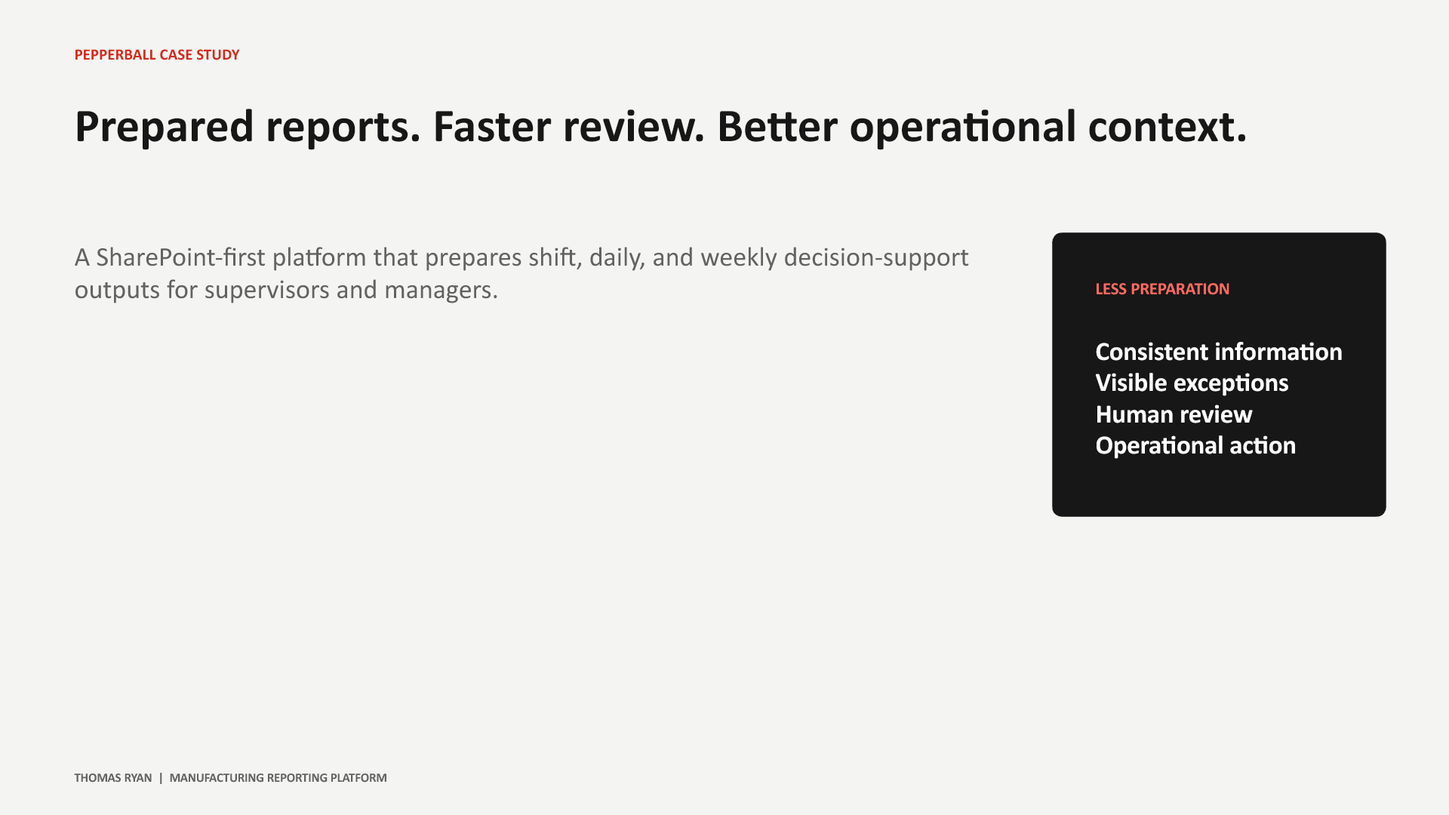
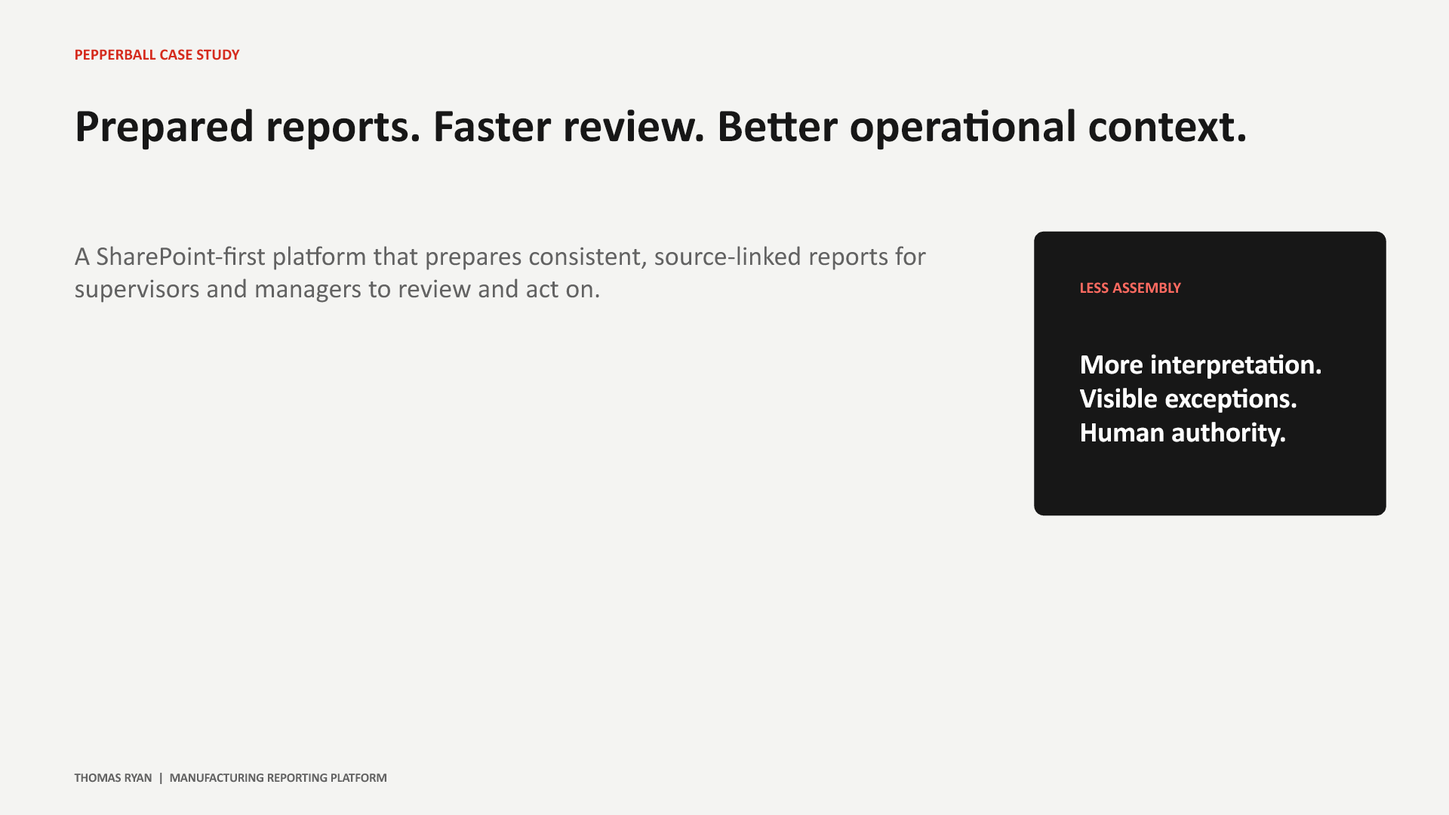
Condense case study and clarify artifact roles

Changed region(s): [[0.0312, 0.275, 0.9375, 0.6417]]

diff --git a/app/page.tsx b/app/page.tsx
@@ -1,64 +1,18 @@
-'use client';
-import { useState } from 'react';
 import Image from 'next/image';
-
 const outputs=[
-['Shift Drafts','Supervisors','Automates much of the collection, reconciliation, organization, and spreadsheet manipulation required for shift reporting. Supervisors receive a prepared starting point, review exceptions, add operational context, and finalize reports more quickly.',['Review exceptions','Add shift context','Finalize and hand off']],
-['Daily Production Reports','Managers','Combines production, molding, labor, quality, plan attainment, and downtime so managers can investigate constraints, prioritize follow-up, and adjust staffing, production plans, maintenance, or coordination.',['Investigate performance','Prioritize follow-up','Coordinate action']],
-['Weekly Production Reports','Operations leadership','Compares performance over time, distinguishes isolated incidents from recurring patterns, and supports capacity, labor, and production planning.',['Compare trends','Plan capacity and labor','Focus improvement']],
-['Weekly Downtime Reports','Operations and maintenance','Provides consistent evidence for maintenance prioritization, daily meetings, weekly reviews, and clearer shift-to-shift accountability.',['Find recurring issues','Plan maintenance','Track follow-up']]
+ {name:'Shift Drafts',user:'Supervisors',prepare:'Collection, reconciliation, organization, and spreadsheet preparation.',use:'Review exceptions, add operational context, and finalize shift reports.'},
+ {name:'Daily Production Reports',user:'Managers',prepare:'Production, molding, labor, quality, plan attainment, and downtime in one consistent view.',use:'Investigate constraints and prioritize staffing, planning, maintenance, or coordination follow-up.'},
+ {name:'Weekly Production + Downtime',user:'Managers and teams',prepare:'Comparable performance and downtime evidence across reporting periods.',use:'Identify trends, separate recurring issues from isolated events, and support planning, reviews, and handoffs.'},
 ];
-const flow=[
-['01','Operational inputs','Hourly production, quality, labor, machine notes, machine events, and final-report evidence arrive through existing SharePoint and Excel workflows.'],
-['02','Automated ingestion','Version-aware collection preserves source identity and immutable evidence while current work stays ahead of historical reconciliation.'],
-['03','Governed facts','Eight source-linked reporting tables normalize inputs while missing remains distinct from a proved zero.'],
-['04','Reconcile and validate','Coverage, lineage, business semantics, and stored values are checked before an output can advance.'],
-['05','Prepare outputs','Shift, daily, weekly production, and weekly downtime workbooks organize evidence into consistent operational views.'],
-['06','Human review and action','Supervisors and managers interpret results, add context, investigate constraints, and choose the response.']
-];
-const impacts=[
-['94.6%','Measured replay-load reduction','Serving rows fell from 113,137 to 6,075 while required table counts were preserved.'],
-['86.6%','Measured local database-footprint reduction','The verified PostgreSQL fixture fell from 198,719,167 to 26,580,671 bytes.'],
-['~90%','Estimated faster information retrieval','A source-grounded workflow reduced a modeled 20–30 minute investigation to roughly 1–2 minutes.'],
-['30 hrs/wk','Estimated recurring preparation time','20 supervisor and 10 manager hours weekly, representing about $52K in modeled annual labor value.']
-];
-const lenses=[
-['Average viewer','See who uses each output, what preparation it reduces, and how it supports faster interpretation and action.'],
-['Recruiter','See end-to-end ownership across product discovery, Python/PostgreSQL engineering, cloud delivery, and handoff.'],
-['Operations','Follow Shift Draft, daily, weekly, machine-event, alert, meeting, and handoff workflows.'],
-['Engineer','Inspect ingestion, eight tables, lineage, validation, idempotency, publication, readback, repair, and rollback.']
-];
-const groups=[
-['Operational capture',['SharePoint and Microsoft Forms','Five Power Automate flows','Machine status, notes, labor, and reminders']],
-['Data platform',['Python ingestion and reconciliation','PostgreSQL serving model','Eight source-linked reporting tables']],
-['Report products',['Shift Drafts','Daily and weekly production','Weekly downtime and maintenance']],
-['Reliability',['Lineage and stored-value validation','Fail-closed same-item publishing','Exact readback and bounded repair']],
-['Delivery',['Read-only API and SPFx surfaces','One-writer immutable releases','Exact rollback and evidence capture']],
-['Deeper material',['Synthetic recovery lab','Architecture and validation docs','Chronology, deck, workbook, and GitHub']]
-];
-const scenarios=[
-['Late source','Recovered','1 governed write','The obligation stays pending until qualified evidence arrives, then refreshes the same canonical output.',['Expected output recorded','Source remains incomplete','Qualified evidence arrives','Same item advances once','Exact readback certifies']],
-['Lost response','Settled','0 retry writes','An ambiguous response never authorizes a second write. Remote state is resolved with GET only.',['Conditional write accepted','Response becomes ambiguous','Candidate retained','GET reads remote state','Exact match settles']],
-['Equivalent replay','No-op','0 writes','Capture metadata can change while governed business material stays equivalent, so publication is skipped.',['Due slot observed','Material identity computed','Existing identity matches','Readback remains exact','No mutation issued']],
-['Release regression','Restored','1 active writer','A failed successor drains before exact rollback resumes, preserving a single production writer.',['Successor isolated','Guard detects regression','Writer drains','Exact rollback activates','Topology rechecked']]
-];
-
-export default function Home(){
- const [lens,setLens]=useState(0); const [scenarioIndex,setScenarioIndex]=useState(0); const scenario=scenarios[scenarioIndex];
- return <main>
-  <section className="hero" id="top"><nav className="nav"><a className="wordmark" href="#top">PB<span>/</span>Platform</a><div className="nav-links"><a href="#outputs">Outputs</a><a href="#workflow">Workflow</a><a href="#evidence">Evidence</a><a href="#technical">Technical depth</a></div></nav><div className="hero-grid"><div><p className="eyebrow">Manufacturing intelligence case study</p><h1>Prepared reports. Faster review. Better operational context.</h1><p className="lede">A SharePoint-first manufacturing intelligence platform that turns fragmented production evidence into dependable shift, daily, and weekly decision-support outputs for supervisors and managers.</p><p className="role-line">Thomas Ryan · Forward Deployed Engineer Intern · May–August 2026</p><div className="hero-actions"><a className="button primary" href="#outputs">See how the reports are used</a><a className="button secondary" href="/Thomas-Ryan-PepperBall-Case-Study.pdf">One-page PDF</a></div></div><aside className="proof-panel"><p className="panel-label">What changes for the team</p><dl><div><dt>Preparation</dt><dd>Less manual assembly</dd></div><div><dt>Information</dt><dd>Consistent and traceable</dd></div><div><dt>Accountability</dt><dd>Exceptions stay visible</dd></div><div><dt>Management time</dt><dd>More interpretation and action</dd></div></dl><p className="decision-note">The platform supports decisions; supervisors and managers retain operational judgment and authority.</p></aside></div></section>
-  <section className="section output-section" id="outputs"><Heading eyebrow="How the outputs are used" title="Built around the reporting work people already do." body="The products reduce preparation and reconciliation while keeping review, context, exceptions, and operational decisions with the people closest to the process."/><div className="output-grid">{outputs.map((o,i)=><article key={o[0] as string}><span>{String(i+1).padStart(2,'0')} · {o[1] as string}</span><h3>{o[0] as string}</h3><p>{o[2] as string}</p><ul>{(o[3] as string[]).map(x=><li key={x}>{x}</li>)}</ul></article>)}</div></section>
-  <section className="dark-section" id="workflow"><div className="section"><Heading light eyebrow="Operating workflow" title="Automation prepares the evidence. People decide what to do." body="Every stage preserves the path from source material to the report a supervisor or manager reviews."/><div className="flow-grid">{flow.map(x=><article key={x[0]}><span>{x[0]}</span><h3>{x[1]}</h3><p>{x[2]}</p></article>)}</div></div></section>
-  <section className="section" id="evidence"><Heading eyebrow="Impact with boundaries" title="Measured engineering gains. Clearly labeled operational models." body="Technical reductions are measured in retained evidence. Time and financial figures are estimates or models—not booked savings, recovered revenue, or guaranteed outcomes."/><div className="impact-grid">{impacts.map(x=><article key={x[1]}><strong>{x[0]}</strong><h3>{x[1]}</h3><p>{x[2]}</p></article>)}</div><p className="impact-note">Secondary modeled opportunity: real-time status updates and downtime alerts represent up to 227.5K widgets and approximately $205K in annual contribution margin under stated event-frequency, response-time, throughput, and margin assumptions.</p></section>
-  <section className="lens-section"><div className="section lens-grid"><div><p className="eyebrow">Choose your depth</p><h2>One story, useful at every altitude.</h2></div><div><div className="tabs" role="tablist">{lenses.map((x,i)=><button role="tab" key={x[0]} aria-selected={lens===i} className={lens===i?'selected':''} onClick={()=>setLens(i)}>{x[0]}</button>)}</div><div className="lens-panel"><h3>{lenses[lens][0]}</h3><p>{lenses[lens][1]}</p></div></div></div></section>
-  <section className="dark-section" id="technical"><div className="section"><Heading light eyebrow="Architecture and technical depth" title="What makes the operational views trustworthy." body="The overview names every major component. Detailed public documentation and the private handoff preserve implementation and operating procedures at the appropriate access level."/><div className="technical-grid">{groups.map((g,i)=><article key={g[0] as string}><span>{String(i+1).padStart(2,'0')}</span><h3>{g[0] as string}</h3><ul>{(g[1] as string[]).map(x=><li key={x}>{x}</li>)}</ul></article>)}</div></div></section>
-  <section className="lab-section"><div className="section"><Heading light eyebrow="Interactive recovery lab" title="Change the failure. Keep the invariants." body="A synthetic browser-only demonstration with no production connection."/><div className="tabs dark-tabs" role="tablist">{scenarios.map((x,i)=><button role="tab" key={x[0] as string} aria-selected={scenarioIndex===i} className={scenarioIndex===i?'selected':''} onClick={()=>setScenarioIndex(i)}>{x[0] as string}</button>)}</div><div className="scenario"><div><div className="status"><span>{scenario[1] as string}</span><strong>{scenario[2] as string}</strong></div><h3>{scenario[0] as string}</h3><p>{scenario[3] as string}</p></div><ol>{(scenario[4] as string[]).map((x,i)=><li key={x}><span>{i+1}</span><strong>{x}</strong></li>)}</ol></div></div></section>
-  <section className="artifact-section"><div className="section artifact-grid"><div><p className="eyebrow">Synthetic output</p><h2>Inspect the product without exposing production data.</h2><p>The workbook mirrors the reliability model with formula-driven summaries, a recovery trace, and synthetic identifiers.</p><div className="hero-actions"><a className="button primary" href="/synthetic-reliability-report.xlsx">Download workbook</a><a className="text-link" href="/synthetic-report-trace.png">View trace</a></div></div><figure><Image src="/synthetic-report-summary.png" width={2172} height={1097} alt="Synthetic reporting workbook summary"/><figcaption>Executive Summary generated entirely from synthetic recovery events.</figcaption></figure></div></section>
-  <section className="downloads-section"><div className="section downloads-grid"><div><p className="eyebrow">Go deeper</p><h2>Pick the artifact for the conversation.</h2><p>Start with the executive scan, then move into architecture, evidence, synthetic code, and the full technical narrative.</p></div><div className="download-list"><Download n="01" href="/Thomas-Ryan-PepperBall-Case-Study.pdf" title="One-page case study" detail="Operational overview · PDF"/><Download n="02" href="/Thomas-Ryan-PepperBall-End-to-End-Case-Study.pdf" title="End-to-end case study" detail="Architecture and evidence · PDF"/><Download n="03" href="/Thomas-Ryan-PepperBall-Platform-Case-Study.pptx" title="Presentation deck" detail="Operations-to-engineering narrative · PowerPoint"/><Download n="04" href="/synthetic-reliability-report.xlsx" title="Synthetic workbook" detail="Inspectable reliability output · Excel"/></div></div></section>
-  <section className="role-section"><div className="section role-grid"><div><p className="eyebrow">Role and boundaries</p><h2>Product judgment, engineering rigor, and operational ownership.</h2></div><div><p>Thomas owned field discovery, product goals, business definitions, acceptance criteria, architecture, implementation direction, production diagnosis, release decisions, evidence, and handoff.</p><p>This clean-room public package uses generalized architecture and synthetic data. It contains no production source, customer data, credentials, private identities, exact topology, or live templates.</p><div className="contact-links"><a href="https://github.com/tonnyryam">GitHub</a><a href="https://www.linkedin.com/in/thomas-f-ryan/">LinkedIn</a><a href="mailto:tommyryan.sf415@gmail.com">Email</a></div></div></div></section>
-  <footer><div><strong>PepperBall reporting platform case study</strong><p>Thomas Ryan · Forward Deployed Engineer Intern · May–August 2026</p></div><p>Independent portfolio material. All Rights Reserved. Not an official PepperBall product.</p></footer>
- </main>
-}
-
-function Heading({eyebrow,title,body,light=false}:{eyebrow:string,title:string,body:string,light?:boolean}){return <div className={'section-heading'+(light?' light':'')}><div><p className="eyebrow">{eyebrow}</p><h2>{title}</h2></div><p>{body}</p></div>}
-function Download({n,href,title,detail}:{n:string,href:string,title:string,detail:string}){return <a href={href}><span>{n}</span><div><strong>{title}</strong><small>{detail}</small></div></a>}
+const controls=['Automated ingestion and reconciliation','Source-linked lineage','Missing remains distinct from zero','Fail-closed validation and publishing','One-writer delivery and exact rollback'];
+function Download({href,title,detail}:{href:string;title:string;detail:string}){return <a href={href}><span>↗</span><div><strong>{title}</strong><small>{detail}</small></div></a>}
+export default function Home(){return <main>
+ <section className="hero" id="top"><nav className="nav"><a className="wordmark" href="#top">PB<span>/</span>Platform</a><div className="nav-links"><a href="#outputs">Outputs</a><a href="#workflow">Workflow</a><a href="#technical">Technical</a><a href="#evidence">Evidence</a></div></nav><div className="hero-grid"><div><p className="eyebrow">Manufacturing intelligence case study</p><h1>Prepared reports. Faster review. Better operational context.</h1><p className="lede">A SharePoint-first platform that prepares consistent, source-linked shift, daily, and weekly reports for supervisors and managers to review and act on.</p><p className="role-line">Thomas Ryan · Forward Deployed Engineer Intern · May–August 2026</p><div className="hero-actions"><a className="button primary" href="#outputs">See how it is used</a><a className="button secondary" href="/Thomas-Ryan-PepperBall-Case-Study.pdf">One-page overview</a></div></div><aside className="proof-panel"><p className="panel-label">The operational change</p><strong>Less assembly.<br/>More interpretation.</strong><p>Automation prepares the evidence. People review exceptions, add context, and retain decision authority.</p></aside></div></section>
+ <section className="section output-section" id="outputs"><div className="compact-heading"><div><p className="eyebrow">Who uses what</p><h2>Three reporting products, three distinct jobs.</h2></div><p>Each output reduces preparation without hiding exceptions or replacing operational judgment.</p></div><div className="output-table"><div className="output-head"><span>Output</span><span>Automation prepares</span><span>People use it to</span></div>{outputs.map(o=><article key={o.name}><div><small>{o.user}</small><h3>{o.name}</h3></div><p>{o.prepare}</p><p>{o.use}</p></article>)}</div></section>
+ <section className="dark-section" id="workflow"><div className="section"><div className="compact-heading light"><div><p className="eyebrow">Operational workflow</p><h2>One traceable path from input to action.</h2></div><p>The system prepares decision-support information; supervisors and managers decide what happens next.</p></div><div className="workflow-visual"><div><span>01</span><strong>Operational inputs</strong><small>Forms · SharePoint · files · machine events</small></div><b>→</b><div><span>02</span><strong>Prepare + validate</strong><small>Ingest · reconcile · link · test</small></div><b>→</b><div><span>03</span><strong>Reports + dashboard</strong><small>Shift · daily · weekly · live status</small></div><b>→</b><div className="red-step"><span>04</span><strong>Human review + action</strong><small>Interpret · prioritize · coordinate</small></div></div></div></section>
+ <section className="section value-section"><div className="value-copy"><p className="eyebrow">Operational value</p><h2>More time for interpretation, follow-up, and accountability.</h2><p>Prepared reports reduce repetitive spreadsheet work and make consistent information easier to reach. Exceptions remain visible so teams can investigate rather than merely assemble.</p></div><div className="value-proof"><span>Modeled planning opportunity</span><strong>30 hours/week</strong><p>20 supervisor and 10 manager hours of reporting effort addressed, representing about $52K in modeled annual labor value under documented assumptions—not booked savings.</p></div></section>
+ <section className="architecture-section" id="technical"><div className="section architecture-grid"><div><p className="eyebrow">Technical foundation</p><h2>Simple to consume because the controls are explicit.</h2><ul>{controls.map(x=><li key={x}>{x}</li>)}</ul><a className="text-link" href="/Thomas-Ryan-PepperBall-End-to-End-Case-Study.pdf">Read the technical case study →</a></div><div className="architecture-visual"><div><span>INPUTS</span><strong>SharePoint · Forms<br/>5 flows · machine events</strong></div><i>↓</i><div><span>REPORTING CORE</span><strong>Python · PostgreSQL<br/>8 source-linked tables</strong></div><i>↓</i><div><span>DELIVERY</span><strong>Validated workbooks<br/>API · SPFx dashboard</strong></div><aside>Lineage · validation · readback · rollback</aside></div></div></section>
+ <section className="preview-section" id="evidence"><div className="section"><div className="compact-heading"><div><p className="eyebrow">Evidence in context</p><h2>Open an artifact only when it adds a new layer.</h2></div><p>The public package is synthetic and sanitized. Exact operating dependencies remain in the private successor handoff.</p></div><div className="preview-grid"><figure><Image src="/synthetic-report-summary.png" width={2172} height={1097} alt="Synthetic reporting workbook summary"/><figcaption><strong>Inspect the synthetic workbook</strong><span>Operational-use guide plus reliability evidence.</span><a href="/synthetic-reliability-report.xlsx">Download Excel →</a></figcaption></figure><div className="artifact-stack"><Download href="/Thomas-Ryan-PepperBall-Case-Study.pdf" title="One-page overview" detail="Executive scan · PDF"/><Download href="/Thomas-Ryan-PepperBall-Platform-Case-Study.pptx" title="Presentation" detail="Short operating narrative · PowerPoint"/><Download href="/Thomas-Ryan-PepperBall-End-to-End-Case-Study.pdf" title="Technical case study" detail="Architecture and evidence · PDF"/></div></div></div></section>
+ <section className="final-section"><div><p className="eyebrow">Continue</p><h2>Choose the evidence that fits the conversation.</h2></div><div className="final-actions"><a href="/Thomas-Ryan-PepperBall-End-to-End-Case-Study.pdf">Technical case study</a><a href="/synthetic-reliability-report.xlsx">Synthetic workbook</a><a href="https://github.com/tonnyryam/pepperball-reporting-platform-case-study">GitHub repository</a></div></section>
+ <footer><span>Thomas Ryan · Manufacturing reporting platform</span><p>Decision support—not autonomous decisions or guaranteed outcomes.</p></footer>
+ </main>}

diff --git a/app/globals.css b/app/globals.css
@@ -1,14 +1,11 @@
 @import 'tailwindcss';
-:root{--ink:#171717;--muted:#626262;--paper:#f4f4f2;--surface:#fff;--line:#d2d2cf;--red:#d52b1e;--red-dark:#a91f16;--night:#191919;--grey:#e7e7e4}
-*{box-sizing:border-box}html{scroll-behavior:smooth}body{margin:0;background:var(--paper);color:var(--ink);font-family:var(--font-geist-sans),Arial,sans-serif}a{color:inherit}button,a{-webkit-tap-highlight-color:transparent}button:focus-visible,a:focus-visible{outline:3px solid var(--red);outline-offset:4px}.section{max-width:1240px;margin:auto;padding:104px clamp(24px,6vw,88px)}
-.hero{padding:24px clamp(24px,6vw,88px) 78px;background:radial-gradient(circle at 84% 13%,#e7e7e5 0,transparent 29%),linear-gradient(145deg,#fff 0%,#f1f1ef 100%)}.nav{display:flex;justify-content:space-between;align-items:center;max-width:1240px;margin:auto}.wordmark{font-family:var(--font-geist-mono);font-weight:800;text-decoration:none;letter-spacing:-.04em}.wordmark span{color:var(--red);padding:0 4px}.nav-links{display:flex;gap:26px}.nav-links a{font-size:13px;text-decoration:none}.nav-links a:hover{text-decoration:underline;text-decoration-color:var(--red);text-underline-offset:6px}.hero-grid{display:grid;grid-template-columns:minmax(0,1.4fr) minmax(300px,.6fr);gap:clamp(48px,8vw,112px);align-items:end;max-width:1240px;margin:clamp(82px,13vh,142px) auto 0}.eyebrow{margin:0 0 18px;color:var(--red);font-family:var(--font-geist-mono);font-size:12px;font-weight:800;letter-spacing:.13em;text-transform:uppercase}h1{max-width:930px;margin:0;font-size:clamp(50px,7.3vw,98px);font-weight:620;letter-spacing:-.07em;line-height:.94}.lede{max-width:790px;margin:32px 0 0;color:var(--muted);font-size:clamp(18px,2vw,23px);line-height:1.55}.role-line{margin:21px 0 0;color:var(--red-dark);font-family:var(--font-geist-mono);font-size:12px;font-weight:700}.hero-actions{display:flex;flex-wrap:wrap;gap:14px;margin-top:32px}.button{display:inline-flex;min-height:48px;align-items:center;justify-content:center;padding:0 20px;border:1px solid var(--ink);border-radius:999px;font-size:14px;font-weight:700;text-decoration:none}.button.primary{background:var(--red);border-color:var(--red);color:#fff}.button.primary:hover{background:var(--red-dark);border-color:var(--red-dark)}.button.secondary{background:#fff}.proof-panel{padding:30px;background:var(--night);color:#fff;border-radius:26px 26px 4px 26px;box-shadow:22px 24px 0 #d8d8d5}.panel-label{margin:0 0 20px;color:#ff6258;font-family:var(--font-geist-mono);font-size:11px;letter-spacing:.12em;text-transform:uppercase}.proof-panel dl{margin:0}.proof-panel dl div{display:flex;justify-content:space-between;gap:20px;padding:14px 0;border-top:1px solid #ffffff2b}.proof-panel dt{color:#bdbdbd;font-size:13px}.proof-panel dd{margin:0;text-align:right;font-size:13px;font-weight:700}.decision-note{margin:20px 0 0;color:#c9c9c9;font-size:12px;line-height:1.55}
-.section-heading{display:grid;grid-template-columns:minmax(0,1.1fr) minmax(260px,.9fr);gap:70px;align-items:end;margin-bottom:50px}.section-heading h2,.lens-grid h2,.downloads-grid h2,.role-grid h2,.artifact-grid h2{margin:0;font-size:clamp(38px,5vw,66px);letter-spacing:-.055em;line-height:.99}.section-heading>p,.section-heading>div+p{margin:0;color:var(--muted);font-size:17px;line-height:1.65}.section-heading.light>p,.section-heading.light>div+p{color:#c7c7c7}.output-section{background:var(--surface)}
-.output-grid{display:grid;grid-template-columns:repeat(2,1fr);border-top:1px solid var(--line);border-left:1px solid var(--line)}.output-grid article{padding:30px;border-right:1px solid var(--line);border-bottom:1px solid var(--line);background:#fafaf9}.output-grid article>span,.flow-grid article>span,.technical-grid article>span{color:var(--red);font-family:var(--font-geist-mono);font-size:11px;text-transform:uppercase}.output-grid h3{margin:34px 0 10px;font-size:30px;letter-spacing:-.04em}.output-grid p{color:var(--muted);line-height:1.65}.output-grid ul{display:flex;flex-wrap:wrap;gap:8px;margin:22px 0 0;padding:0;list-style:none}.output-grid li{padding:8px 10px;border:1px solid #bcbcb9;border-radius:999px;color:#444;font-size:12px}
-.dark-section{background:var(--night);color:#fff}.flow-grid{display:grid;grid-template-columns:repeat(3,1fr);gap:1px;background:#4a4a4a;border:1px solid #4a4a4a}.flow-grid article{min-height:260px;padding:28px;background:#242424}.flow-grid h3{margin:48px 0 14px;font-size:24px}.flow-grid p{margin:0;color:#c3c3c3;line-height:1.6}.impact-grid{display:grid;grid-template-columns:repeat(4,1fr);gap:1px;background:var(--line);border:1px solid var(--line)}.impact-grid article{min-height:285px;padding:26px;background:#fff}.impact-grid article>strong{display:block;color:var(--red);font-size:clamp(38px,4vw,58px);letter-spacing:-.05em}.impact-grid h3{margin:42px 0 12px;font-size:19px}.impact-grid p{margin:0;color:var(--muted);font-size:14px;line-height:1.55}.impact-note{margin:22px 0 0;padding-left:16px;border-left:3px solid var(--red);color:var(--muted);font-size:13px;line-height:1.6}
-.lens-section{background:#e5e5e2}.lens-grid{display:grid;grid-template-columns:.7fr 1.3fr;gap:80px}.tabs{display:flex;flex-wrap:wrap;gap:8px}.tabs button{min-height:42px;padding:0 15px;border:1px solid #aaa;background:transparent;color:#555;border-radius:999px;font:inherit;font-size:13px;cursor:pointer}.tabs button.selected{background:var(--red);border-color:var(--red);color:#fff}.lens-panel{min-height:190px;margin-top:16px;padding:32px;background:#fff;border-left:5px solid var(--red)}.lens-panel h3{margin:0 0 14px;font-size:30px}.lens-panel p{margin:0;color:var(--muted);font-size:17px;line-height:1.6}.technical-grid{display:grid;grid-template-columns:repeat(3,1fr);gap:1px;background:#4a4a4a;border:1px solid #4a4a4a}.technical-grid article{min-height:270px;padding:27px;background:#242424}.technical-grid h3{margin:42px 0 18px;font-size:23px}.technical-grid ul{margin:0;padding:0;list-style:none}.technical-grid li{padding:9px 0;border-top:1px solid #ffffff1c;color:#ccc;font-size:13px}
-.lab-section{background:#303030;color:#fff}.dark-tabs{margin-bottom:18px}.dark-tabs button{border-color:#707070;color:#ddd}.scenario{display:grid;grid-template-columns:.75fr 1.25fr;gap:55px;padding:48px;border:1px solid #565656;border-radius:24px;background:#202020}.status{display:flex;justify-content:space-between;gap:16px;color:#ff6258;font-family:var(--font-geist-mono);font-size:11px;text-transform:uppercase}.scenario h3{margin:50px 0 16px;font-size:46px}.scenario p{margin:0;color:#bbb;line-height:1.65}.scenario ol{margin:0;padding:0;list-style:none}.scenario li{display:grid;grid-template-columns:40px 1fr;gap:16px;align-items:center;min-height:64px;border-bottom:1px solid #ffffff1c}.scenario li>span{display:grid;width:30px;height:30px;place-items:center;border-radius:50%;background:#3b3b3b;color:#ff6258;font-size:11px}
-.artifact-section{background:#dededb}.artifact-grid{display:grid;grid-template-columns:.68fr 1.32fr;gap:65px;align-items:center}.artifact-grid p{color:var(--muted);line-height:1.65}.artifact-grid figure{margin:0;overflow:hidden;border-radius:18px;background:#fff;box-shadow:0 22px 55px #0002}.artifact-grid img{display:block;width:100%;height:auto}.artifact-grid figcaption{padding:14px 17px;color:var(--muted);font-size:12px}.text-link{font-weight:700;text-underline-offset:6px}.downloads-section{background:#f7f7f5}.downloads-grid{display:grid;grid-template-columns:.7fr 1.3fr;gap:80px}.downloads-grid>div>p:not(.eyebrow){color:var(--muted);line-height:1.6}.download-list{border-top:1px solid #aaa}.download-list a{display:grid;grid-template-columns:42px 1fr;gap:18px;align-items:center;min-height:92px;border-bottom:1px solid #aaa;text-decoration:none}.download-list>a>span{color:var(--red);font-family:var(--font-geist-mono);font-size:11px}.download-list strong,.download-list small{display:block}.download-list small{margin-top:6px;color:var(--muted)}.download-list a:hover strong{color:var(--red)}
-.role-section{background:var(--red);color:#fff}.role-grid{display:grid;grid-template-columns:1fr 1fr;gap:85px}.role-grid .eyebrow{color:#fff}.role-grid>div:last-child{align-self:end}.role-grid p{color:#fff;line-height:1.7}.contact-links{display:flex;gap:22px;margin-top:30px}.contact-links a{font-weight:700;text-underline-offset:5px}footer{display:flex;justify-content:space-between;gap:40px;padding:40px clamp(24px,6vw,88px);background:#111;color:#fff}footer p{max-width:420px;margin:7px 0 0;color:#aaa;font-size:13px;text-align:right}
-@media(max-width:980px){.hero-grid,.section-heading,.lens-grid,.scenario,.artifact-grid,.downloads-grid,.role-grid{grid-template-columns:1fr}.hero-grid{margin-top:82px}.proof-panel{max-width:560px}.flow-grid,.technical-grid{grid-template-columns:repeat(2,1fr)}.impact-grid{grid-template-columns:repeat(2,1fr)}.lens-grid,.downloads-grid{gap:34px}}
-@media(max-width:650px){.nav-links{display:none}.hero-actions{flex-direction:column;align-items:stretch}.button{text-align:center}.output-grid,.flow-grid,.impact-grid,.technical-grid{grid-template-columns:1fr}.scenario{padding:30px}.scenario h3{margin-top:30px}.impact-grid article{min-height:220px}.role-grid{gap:30px}footer{flex-direction:column}footer p{text-align:left}}
+:root{--ink:#171717;--muted:#626262;--paper:#f4f4f2;--surface:#fff;--line:#d0d0cd;--red:#d52b1e;--red-dark:#a91f16;--night:#191919;--pale:#fbe8e6}*{box-sizing:border-box}html{scroll-behavior:smooth}body{margin:0;background:var(--paper);color:var(--ink);font-family:var(--font-geist-sans),Arial,sans-serif}a{color:inherit}.section{max-width:1240px;margin:auto;padding:84px clamp(24px,6vw,88px)}.eyebrow{margin:0 0 16px;color:var(--red);font-family:var(--font-geist-mono);font-size:11px;font-weight:800;letter-spacing:.13em;text-transform:uppercase}
+.hero{padding:24px clamp(24px,6vw,88px) 70px;background:radial-gradient(circle at 88% 12%,#e2e2df 0,transparent 30%),#fff}.nav{display:flex;justify-content:space-between;align-items:center;max-width:1240px;margin:auto}.wordmark{font-family:var(--font-geist-mono);font-weight:800;text-decoration:none}.wordmark span{color:var(--red);padding:0 4px}.nav-links{display:flex;gap:26px}.nav-links a{font-size:13px;text-decoration:none}.hero-grid{display:grid;grid-template-columns:1.45fr .55fr;gap:80px;align-items:end;max-width:1240px;margin:100px auto 0}.hero h1{max-width:900px;margin:0;font-size:clamp(50px,7vw,92px);font-weight:620;letter-spacing:-.065em;line-height:.95}.lede{max-width:780px;margin:28px 0 0;color:var(--muted);font-size:21px;line-height:1.55}.role-line{color:var(--red-dark);font:700 12px var(--font-geist-mono);margin:20px 0 0}.hero-actions{display:flex;gap:12px;margin-top:28px}.button{display:inline-flex;min-height:46px;align-items:center;padding:0 19px;border:1px solid var(--ink);border-radius:999px;font-size:13px;font-weight:700;text-decoration:none}.button.primary{background:var(--red);border-color:var(--red);color:#fff}.proof-panel{padding:28px;background:var(--night);color:#fff;border-radius:24px 24px 4px 24px;box-shadow:18px 20px 0 #d8d8d5}.proof-panel .panel-label{color:#ff665c;font:700 11px var(--font-geist-mono)}.proof-panel>strong{display:block;margin:24px 0;font-size:30px;line-height:1.15}.proof-panel>p:last-child{color:#c6c6c6;font-size:13px;line-height:1.6}
+.compact-heading{display:grid;grid-template-columns:1.15fr .85fr;gap:70px;align-items:end;margin-bottom:42px}.compact-heading h2,.value-section h2,.architecture-grid h2,.final-section h2{margin:0;font-size:clamp(38px,4.7vw,62px);letter-spacing:-.055em;line-height:1}.compact-heading>p{margin:0;color:var(--muted);font-size:16px;line-height:1.65}.output-section{background:#fff}.output-table{border-top:1px solid var(--ink)}.output-head,.output-table article{display:grid;grid-template-columns:.8fr 1fr 1fr;gap:34px;padding:20px 0;border-bottom:1px solid var(--line)}.output-head{color:var(--muted);font:700 10px var(--font-geist-mono);letter-spacing:.1em;text-transform:uppercase}.output-table article{padding:28px 0}.output-table small{color:var(--red);font:700 11px var(--font-geist-mono);text-transform:uppercase}.output-table h3{margin:9px 0 0;font-size:25px}.output-table p{margin:0;color:var(--muted);line-height:1.6}
+.dark-section{background:var(--night);color:#fff}.compact-heading.light>p{color:#bdbdbd}.workflow-visual{display:flex;align-items:stretch;gap:12px}.workflow-visual>div{flex:1;min-height:180px;padding:24px;background:#282828;border:1px solid #464646}.workflow-visual>b{align-self:center;color:#777}.workflow-visual span{color:#ff665c;font:700 11px var(--font-geist-mono)}.workflow-visual strong,.workflow-visual small{display:block}.workflow-visual strong{margin:38px 0 12px;font-size:20px}.workflow-visual small{color:#bdbdbd;line-height:1.45}.workflow-visual .red-step{background:var(--red);border-color:var(--red)}.workflow-visual .red-step span,.workflow-visual .red-step small{color:#fff}
+.value-section{display:grid;grid-template-columns:1.25fr .75fr;gap:90px;align-items:center}.value-copy>p:last-child{max-width:700px;color:var(--muted);font-size:17px;line-height:1.65}.value-proof{padding:30px;border-left:5px solid var(--red);background:#fff}.value-proof span{color:var(--red);font:700 11px var(--font-geist-mono);text-transform:uppercase}.value-proof strong{display:block;margin:20px 0 10px;font-size:48px}.value-proof p{color:var(--muted);font-size:13px;line-height:1.6}
+.architecture-section{background:#e5e5e2}.architecture-grid{display:grid;grid-template-columns:.85fr 1.15fr;gap:90px}.architecture-grid ul{margin:30px 0;padding:0;list-style:none}.architecture-grid li{padding:12px 0;border-top:1px solid #bbb}.text-link{font-weight:700;text-underline-offset:5px}.architecture-visual{padding:28px;background:var(--night);color:#fff}.architecture-visual>div{padding:22px;background:#292929}.architecture-visual span,.architecture-visual strong{display:block}.architecture-visual span{color:#ff665c;font:700 10px var(--font-geist-mono)}.architecture-visual strong{margin-top:10px;line-height:1.45}.architecture-visual i{display:block;padding:8px;text-align:center;color:#888;font-style:normal}.architecture-visual aside{margin-top:14px;padding:15px;background:var(--red);font-size:13px;font-weight:700;text-align:center}
+.preview-section{background:#fff}.preview-grid{display:grid;grid-template-columns:1.25fr .75fr;gap:52px}.preview-grid figure{margin:0;overflow:hidden;border:1px solid var(--line);background:#fff}.preview-grid img{display:block;width:100%;height:auto}.preview-grid figcaption{display:grid;grid-template-columns:1fr auto;gap:5px 20px;padding:18px}.preview-grid figcaption strong,.preview-grid figcaption span{display:block}.preview-grid figcaption span{color:var(--muted);font-size:12px}.preview-grid figcaption a{grid-column:2;grid-row:1/3;align-self:center;color:var(--red);font-weight:700}.artifact-stack{border-top:1px solid var(--ink)}.artifact-stack>a{display:grid;grid-template-columns:38px 1fr;gap:12px;align-items:center;min-height:100px;border-bottom:1px solid var(--line);text-decoration:none}.artifact-stack>a>span{color:var(--red)}.artifact-stack strong,.artifact-stack small{display:block}.artifact-stack small{margin-top:6px;color:var(--muted)}
+.final-section{display:grid;grid-template-columns:1fr 1fr;gap:80px;padding:72px clamp(24px,6vw,88px);background:var(--red);color:#fff}.final-section .eyebrow{color:#fff}.final-actions{display:flex;flex-direction:column;justify-content:center}.final-actions a{padding:16px 0;border-bottom:1px solid #ffffff88;font-weight:700;text-decoration:none}footer{display:flex;justify-content:space-between;gap:30px;padding:32px clamp(24px,6vw,88px);background:#111;color:#fff;font-size:12px}footer p{margin:0;color:#999}
+@media(max-width:900px){.hero-grid,.compact-heading,.value-section,.architecture-grid,.preview-grid,.final-section{grid-template-columns:1fr}.hero-grid{gap:50px}.proof-panel{max-width:520px}.workflow-visual{display:grid;grid-template-columns:1fr}.workflow-visual>b{display:none}.output-head{display:none}.output-table article{grid-template-columns:1fr}.architecture-grid,.preview-grid{gap:45px}}@media(max-width:620px){.nav-links{display:none}.hero-actions{flex-direction:column}.button{justify-content:center}.section{padding-top:66px;padding-bottom:66px}.preview-grid figcaption{display:block}.preview-grid figcaption a{display:block;margin-top:12px}footer{flex-direction:column}}
 @media(prefers-reduced-motion:reduce){html{scroll-behavior:auto}}

diff --git a/scripts/build_public_pdfs.py b/scripts/build_public_pdfs.py
@@ -22,9 +22,9 @@ def build(path,long=False):
  cell=ParagraphStyle(name='Cell',parent=styles['BodyX'],fontSize=7.2,leading=9,textColor=GREY)
  data=[['INPUT','PROCESS','OUTPUT','REVIEW + ACTION'],[Paragraph('Forms, SharePoint, files, machine events',cell),Paragraph('Ingest, reconcile, link sources, validate',cell),Paragraph('Shift drafts, daily and weekly reports, dashboard',cell),Paragraph('People interpret context and decide',cell)]]
  t=Table(data,colWidths=[1.6*inch]*4); t.setStyle(TableStyle([('BACKGROUND',(0,0),(-1,0),INK),('TEXTCOLOR',(0,0),(-1,0),colors.white),('BACKGROUND',(0,1),(-1,-1),colors.HexColor('#F0F0EE')),('FONTNAME',(0,0),(-1,0),'Helvetica-Bold'),('FONTSIZE',(0,0),(-1,0),7.5),('GRID',(0,0),(-1,-1),.5,colors.HexColor('#CCCCCC')),('VALIGN',(0,0),(-1,-1),'TOP'),('LEFTPADDING',(0,0),(-1,-1),7),('RIGHTPADDING',(0,0),(-1,-1),7),('TOPPADDING',(0,0),(-1,-1),7),('BOTTOMPADDING',(0,0),(-1,-1),7)])); story += [Spacer(1,.1*inch),t]
- story += [p('Impact with clear boundaries','H1X'),p('<b>Measured:</b> 94.6% fewer report-replay processing rows and 86.6% smaller local PostgreSQL fixture footprint.'),p('<b>Estimated or modeled:</b> about 90% faster retrieval, about 87% storage-cost reduction under linear scaling, 30 hours/week and about $52K annual labor-value opportunity, and up to 227,500 widgets/about $205K annual contribution-margin opportunity under documented assumptions.'),p('The platform supports decisions. These figures are not blanket accuracy, booked savings, realized margin, autonomous decisions, or guaranteed outcomes.')]
+ story += [p('Operational value with clear boundaries','H1X'),p('<b>Modeled planning opportunity:</b> 20 supervisor plus 10 manager hours of reporting effort per week, representing about $52K in annual labor value under documented assumptions.'),p('The value is reduced preparation, faster access to consistent information, visible exceptions, and more time for interpretation and follow-up. The model is not booked savings or a guaranteed outcome; the platform supports decisions rather than making them.')]
  if long:
-  story += [PageBreak(),p('Architecture and reliability evidence','TitleX'),p('SharePoint and Forms intake','H2X'),p('Five Power Automate flows cover reminders, machine events, machine whiteboard submissions, molding-report archive, and labor notes. SharePoint lists and libraries retain operational inputs and outputs.'),p('Source-linked reporting core','H2X'),p('Python ingestion and reconciliation normalize evidence into eight PostgreSQL serving tables. Workbooks and the API/SPFx dashboard expose prepared reporting views with source lineage.'),p('Fail-closed delivery','H2X'),p('Validation preserves missing-versus-zero semantics. Artifact readback, bounded repair, one-writer releases, and rollback prevent unvalidated output from silently replacing the last known-good release.'),p('Audience paths','H1X'),p('<b>Supervisors and managers:</b> begin with output use, exceptions, and operating decisions. <b>Executives and recruiters:</b> review the concise impact and ownership narrative. <b>Engineers and successors:</b> follow the architecture, reliability, evidence, operating guide, and private dependency map.'),p('Public/private boundary','H1X'),p('Public assets use synthetic data and sanitized architecture. Tenant identifiers, employee data, production URLs, credentials, and exact operating details remain in the private handoff. Credentials are transferred only through an approved secure channel.')]
+  story += [PageBreak(),p('Architecture and reliability evidence','TitleX'),p('SharePoint and Forms intake','H2X'),p('Five Power Automate flows cover reminders, machine events, machine whiteboard submissions, molding-report archive, and labor notes. SharePoint lists and libraries retain operational inputs and outputs.'),p('Source-linked reporting core','H2X'),p('Python ingestion and reconciliation normalize evidence into eight PostgreSQL serving tables. Workbooks and the API/SPFx dashboard expose prepared reporting views with source lineage.'),p('Fail-closed delivery','H2X'),p('Validation preserves missing-versus-zero semantics. Artifact readback, bounded repair, one-writer releases, and rollback prevent unvalidated output from silently replacing the last known-good release.'),p('Public/private boundary','H1X'),p('Public assets use synthetic data and sanitized architecture. Tenant identifiers, employee data, production URLs, credentials, and exact operating details remain in the private handoff. Credentials are transferred only through an approved secure channel.')]
  SimpleDocTemplate(str(path),pagesize=letter,rightMargin=.75*inch,leftMargin=.75*inch,topMargin=.65*inch,bottomMargin=.7*inch,title='PepperBall Reporting Platform Case Study',author='Thomas Ryan').build(story,onFirstPage=footer,onLaterPages=footer)
 build(OUT/'Thomas-Ryan-PepperBall-Case-Study.pdf',False)
 build(OUT/'Thomas-Ryan-PepperBall-End-to-End-Case-Study.pdf',True)

diff --git a/docs/operational-use-and-impact.md b/docs/operational-use-and-impact.md
@@ -12,11 +12,9 @@ The journey is: operational input → automated ingestion → reconciliation and
 
 ## Defensible impact
 
-Measured: replay-processing rows reduced 94.6% (113,137 to 6,075); local PostgreSQL fixture footprint reduced 86.6% (198,719,167 to 26,580,671 bytes).
+Estimated or modeled: 20 supervisor plus 10 manager hours/week and about $52K annual labor value under documented assumptions. This is a planning opportunity, not booked savings.
 
-Estimated or modeled: about 90% retrieval-time reduction; about 87% storage-cost reduction assuming linear scaling; 20 supervisor plus 10 manager hours/week and about $52K annual labor value; up to 227,500 widgets and about $205K annual contribution-margin opportunity under documented assumptions.
-
-These are measured technical results and planning models—not booked savings, realized margin, autonomous decisions, or blanket accuracy claims.
+This is a planning model—not booked savings, autonomous decisions, or a guaranteed outcome.
 
 ## Technical evidence
 

diff --git a/README.md b/README.md
@@ -14,12 +14,11 @@ synthetic data and generalized architecture. It excludes production source and
 history, customer or employee data, credentials, private identifiers, live
 templates, system coordinates, and operational exports.
 
-## Choose your depth
+## Reading path
 
-- **30 seconds:** open the website and read the hero, system map, and outcomes.
-- **5 minutes:** use the interactive recovery lab and inspect the synthetic
-  workbook.
-- **15 minutes:** read the long-form PDF or presentation in `public/`.
+- **One minute:** use the website for outputs, workflow, value, and technical foundation.
+- **Presentation:** use the short deck for a live conversation.
+- **Technical review:** open the long-form case study and synthetic workbook.
 - **Technical review:** start with [end-to-end system](docs/end-to-end-system.md),
   [capability matrix](docs/system-capability-matrix.md), and
   [validation methodology](docs/validation-methodology.md).

diff --git a/docs/public-package-guide.md b/docs/public-package-guide.md
@@ -12,7 +12,7 @@
 
 ## Public-facing artifacts
 
-- Audience-layered static website with full system map and interactive recovery lab.
+- Concise operations-first website with one workflow visual, one architecture visual, and contextual artifact previews.
 - One-page executive PDF.
 - Long-form end-to-end technical case study PDF.
 - Presentation deck with speaker notes and source traceability.
